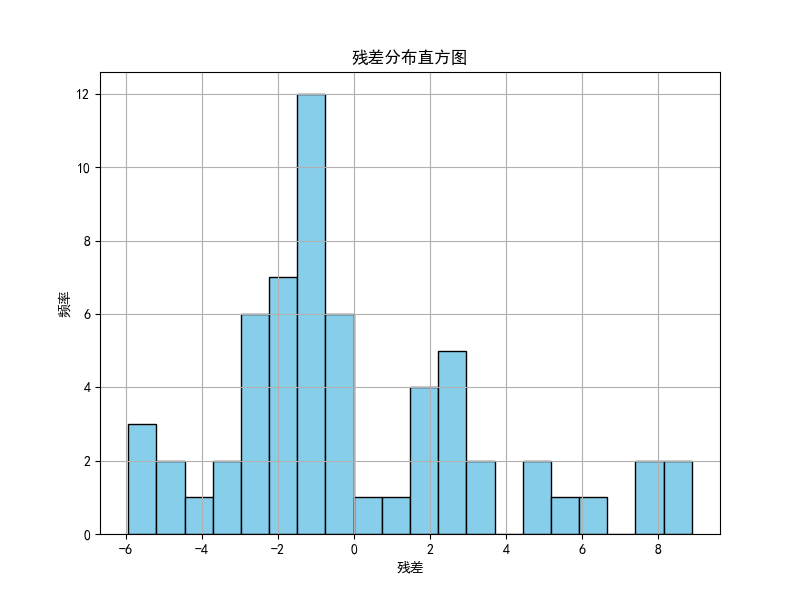
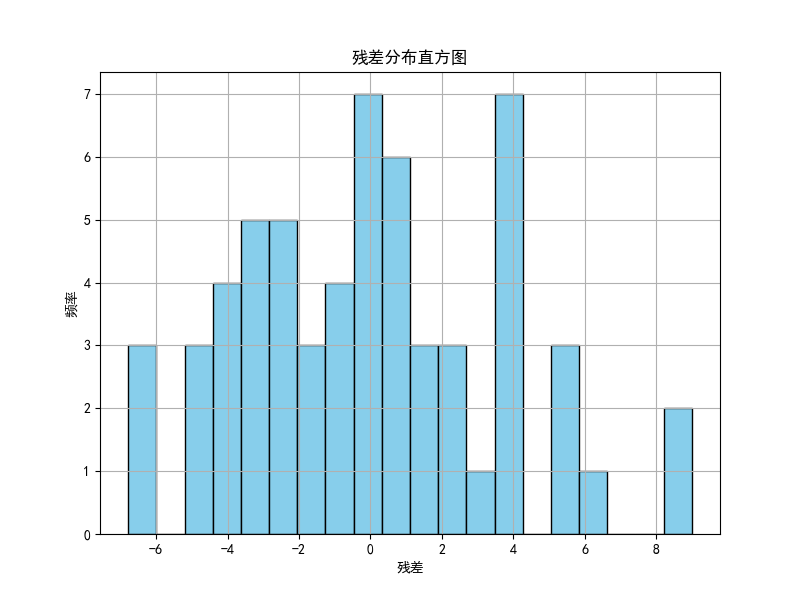
test(result): 更新结果文件和模型参数
- 更新了 P2 和 P3 文件夹中的结果文件
- 调整了支路流量模型的参数
- 修改了关键采样点分析的实现，增加了更多评估指标
- 更新了模型误差评估结果

diff --git a/51MCM/P5/key_sampling_points.py b/51MCM/P5/key_sampling_points.py
@@ -211,12 +211,50 @@ class KeySamplingPointsAnalyzer:
             }
 
         else:  # P3模型
-            # 由于P3模型较复杂，这里提供一个简化版评估
-            # 实际应用中可能需要更复杂的评估方法
+            from p3 import TrafficAnalysisSystem
 
-            # 计算采样点覆盖的数据特征比例
+            # 如果没有提供原始参数，使用默认参数或重新拟合
+            if original_params is None:
+                # 创建交通分析系统并优化模型
+                traffic_system = TrafficAnalysisSystem()
+                traffic_system.optimize_model()
+                original_params = traffic_system.optimal_params
+
+            # 使用采样点拟合模型
+            sampled_times = self.times[self.sampling_indices]
             sampled_flow = self.flow_data[self.sampling_indices]
 
+            # 创建一个新的交通分析系统用于采样点拟合
+            sampled_system = TrafficAnalysisSystem()
+
+            # 保存原始数据
+            original_time_idx = sampled_system.time_idx
+            original_actual_flow = sampled_system.actual_flow
+
+            # 替换为采样点数据
+            sampled_system.time_idx = sampled_times
+            sampled_system.actual_flow = sampled_flow
+
+            # 优化采样点模型
+            sampled_system.optimize_model()
+            sampled_params = sampled_system.optimal_params
+
+            # 恢复原始数据用于评估
+            sampled_system.time_idx = original_time_idx
+            sampled_system.actual_flow = original_actual_flow
+
+            # 计算全部数据点的预测值
+            full_predicted = sampled_system._calculate_main_flow(self.times, original_params)
+            sampled_predicted = sampled_system._calculate_main_flow(self.times, sampled_params)
+
+            # 计算误差
+            full_error = np.mean((full_predicted - self.flow_data)**2)
+            sampled_error = np.mean((sampled_predicted - self.flow_data)**2)
+
+            # 计算参数差异
+            param_diff = np.mean(np.abs(np.array(original_params) - np.array(sampled_params)))
+
+            # 计算采样点覆盖的数据特征比例
             # 计算数据范围覆盖率
             full_range = np.max(self.flow_data) - np.min(self.flow_data)
             sampled_range = np.max(sampled_flow) - np.min(sampled_flow)
@@ -232,6 +270,13 @@ class KeySamplingPointsAnalyzer:
             change_coverage = covered_changes / len(significant_changes) if len(significant_changes) > 0 else 1.0
 
             return {
+                'full_error': full_error,
+                'sampled_error': sampled_error,
+                'param_diff': param_diff,
+                'full_params': original_params,
+                'sampled_params': sampled_params,
+                'full_predicted': full_predicted,
+                'sampled_predicted': sampled_predicted,
                 'range_coverage': range_coverage,
                 'change_coverage': change_coverage,
                 'sampling_efficiency': len(self.sampling_indices) / len(self.flow_data)

diff --git a/51MCM/P3/交通流量分析报告.md b/51MCM/P3/交通流量分析报告.md
@@ -2,58 +2,58 @@
 
 ## 【模型误差评估】
 
-总体RMSE误差: 30.3733
+总体RMSE误差: 34.3958
 
 各时间段误差:
 
 | 时间段 | RMSE误差 |
 |--------|----------|
-| 7:00-7:30 | 9.9417 |
-| 7:30-8:00 | 37.3070 |
-| 8:00-8:30 | 25.5863 |
-| 8:30-8:58 | 37.8743 |
+| 7:00-7:30 | 12.1152 |
+| 7:30-8:00 | 36.8389 |
+| 8:00-8:30 | 26.5968 |
+| 8:30-8:58 | 49.0007 |
 
 ## 【支路1模型参数】
 
-增长阶段斜率: 3.1298
-初始值: 0.8841
-下降阶段斜率1: -2.9564
+增长阶段斜率: 2.5318
+初始值: 2.3197
+下降阶段斜率1: -2.1889
 稳定值: 15.0000
-下降阶段斜率2: -0.5300
-转折点: 4.8, 13.5, 18.1, 44.9
+下降阶段斜率2: -0.5627
+转折点: 5.3, 13.5, 17.2, 45.9
 
 ## 【支路2模型参数】
 
-增长斜率: 0.7038
-截距: 8.6579
-稳定值: 25.8699
-下降斜率: -1.0369
-终值: 25.8699
-转折点: 24.5, 49.6
+增长斜率: 0.8474
+截距: 6.4175
+稳定值: 28.1628
+下降斜率: -1.3293
+终值: 28.1628
+转折点: 25.7, 38.1
 
 ## 【支路3模型参数】
 
-绿灯周期1的斜率: 7.7700, 截距: 4.7325
-绿灯周期2的斜率: 8.3309, 截距: 18.2813
-绿灯周期3的斜率: 13.4907, 截距: 18.7226
-绿灯周期4的斜率: 16.2723, 截距: 21.7445
-绿灯周期5的斜率: 4.0171, 截距: 20.5064
+绿灯周期1的斜率: 10.5748, 截距: 4.2063
+绿灯周期2的斜率: 8.9196, 截距: 16.0758
+绿灯周期3的斜率: 13.4754, 截距: 19.5923
+绿灯周期4的斜率: 14.8680, 截距: 24.5716
+绿灯周期5的斜率: 8.9561, 截距: 28.3501
 
 ## 【支路1流量模型表达式】
 
-$f_1(t) = \begin{cases} 0, & t < 4.8 \\ 3.1298 \cdot (t-4.8) + 0.8841, & 4.8 \leq t < 13.5 \\ -2.9564 \cdot (t-13.5) + 28.3294, & 13.5 \leq t < 18.1 \\ 15.0000, & 18.1 \leq t < 44.9 \\ -0.5300 \cdot (t-44.9), & t \geq 44.9 \end{cases}$
+$f_1(t) = \begin{cases} 0, & t < 5.3 \\ 2.5318 \cdot (t-5.3) + 2.3197, & 5.3 \leq t < 13.5 \\ -2.1889 \cdot (t-13.5) + 23.1540, & 13.5 \leq t < 17.2 \\ 15.0000, & 17.2 \leq t < 45.9 \\ -0.5627 \cdot (t-45.9), & t \geq 45.9 \end{cases}$
 
 ## 【支路2流量模型表达式】
 
-$f_2(t) = \begin{cases} 0.7038 \cdot t + 8.6579, & t \leq 24.5 \\ 25.8699, & 24.5 < t \leq 49.6 \\ -1.0369 \cdot (t-49.6) + 25.8699, & t > 49.6 \end{cases}$
+$f_2(t) = \begin{cases} 0.8474 \cdot t + 6.4175, & t \leq 25.7 \\ 28.1628, & 25.7 < t \leq 38.1 \\ -1.3293 \cdot (t-38.1) + 28.1628, & t > 38.1 \end{cases}$
 
 ## 【支路3流量模型表达式】
 
-$f_3(t) = \begin{cases} 7.7700 \cdot (t-3) + 4.7325, & t \in [3, 8) \text{ 且为绿灯时段} \\ 8.3309 \cdot (t-12) + 18.2813, & t \in [12, 17) \text{ 且为绿灯时段} \\ 13.4907 \cdot (t-21) + 18.7226, & t \in [21, 26) \text{ 且为绿灯时段} \\ 16.2723 \cdot (t-30) + 21.7445, & t \in [30, 35) \text{ 且为绿灯时段} \\ 4.0171 \cdot (t-39) + 20.5064, & t \in [39, 44) \text{ 且为绿灯时段} \\ 0, & \text{其他时段（红灯）} \end{cases}$
+$f_3(t) = \begin{cases} 10.5748 \cdot (t-3) + 4.2063, & t \in [3, 8) \text{ 且为绿灯时段} \\ 8.9196 \cdot (t-12) + 16.0758, & t \in [12, 17) \text{ 且为绿灯时段} \\ 13.4754 \cdot (t-21) + 19.5923, & t \in [21, 26) \text{ 且为绿灯时段} \\ 14.8680 \cdot (t-30) + 24.5716, & t \in [30, 35) \text{ 且为绿灯时段} \\ 8.9561 \cdot (t-39) + 28.3501, & t \in [39, 44) \text{ 且为绿灯时段} \\ 0, & \text{其他时段（红灯）} \end{cases}$
 
 ## 【关键时间点流量】
 
 | 时间点 | 支路1 | 支路2 | 支路3 | 主路4(预测) | 主路4(实际) |
 |--------|-------|-------|-------|------------|------------|
-| 7:30 | 24.03 | 19.21 | 43.27 |    86.27 |    92.78 |
-| 8:30 |  0.00 | 25.87 |  0.00 |    25.00 |    44.00 |
+| 7:30 | 19.90 | 19.13 | 42.83 |    80.83 |    92.78 |
+| 8:30 | 15.00 | 18.94 |  0.00 |    33.00 |    44.00 |

diff --git a/51MCM/P2/result.md b/51MCM/P2/result.md
@@ -1,21 +1,21 @@
 # Result
 
-$ 支路1: f(t) = 7.20 （稳定） $
-$ 支路2: f(t) = \begin{cases} 0.42t + 15.43, & t < 24 \\ 25.56, & 24 \leq t < 37 \\ -0.22t + 33.73, & t \geq 37 \end{cases} $
-$ 支路3: f(t) = \begin{cases} 0.50t + 15.87, & t < 35 \\ 33.50, & t \geq 35 \end{cases} $
-$ 支路4: f(t) = 7.61 + -3.38 \cos\left(\frac{2\pi 1 t}{41.27023333393062}\right) + 1.20 \sin\left(\frac{2\pi 1 t}{41.27023333393062}\right) + 1.12 \cos\left(\frac{2\pi 2 t}{41.27023333393062}\right) + -0.42 \sin\left(\frac{2\pi 2 t}{41.27023333393062}\right) + -4.79 \cos\left(\frac{2\pi 3 t}{41.27023333393062}\right) + -5.82 \sin\left(\frac{2\pi 3 t}{41.27023333393062}\right) $
+$ 支路1: f(t) = 9.52 （稳定） $
+$ 支路2: f(t) = \begin{cases} 0.42t + 18.55, & t < 24 \\ 28.63, & 24 \leq t < 37 \\ -0.21t + 36.53, & t \geq 37 \end{cases} $
+$ 支路3: f(t) = \begin{cases} 0.49t + 14.05, & t < 35 \\ 31.05, & t \geq 35 \end{cases} $
+$ 支路4: f(t) = 4.82 + -2.21 \cos\left(\frac{2\pi 1 t}{28.16543019218076}\right) + -2.61 \sin\left(\frac{2\pi 1 t}{28.16543019218076}\right) + -5.62 \cos\left(\frac{2\pi 2 t}{28.16543019218076}\right) + -4.08 \sin\left(\frac{2\pi 2 t}{28.16543019218076}\right) + 1.17 \cos\left(\frac{2\pi 3 t}{28.16543019218076}\right) + 1.45 \sin\left(\frac{2\pi 3 t}{28.16543019218076}\right) $
 
 ## 7:30 各支路流量值
 
-- Branch1: 7.00
-- Branch2: 20.00
-- Branch3: 23.37
-- Branch4: 3.82
+- Branch1: 9.00
+- Branch2: 24.00
+- Branch3: 21.34
+- Branch4: -1.06
 
 ## 8:30 各支路流量值
 
-- Branch1: 7.00
-- Branch2: 26.00
-- Branch3: 33.50
-- Branch4: 0.37
+- Branch1: 9.00
+- Branch2: 29.00
+- Branch3: 31.05
+- Branch4: 1.31
 

diff --git a/51MCM/P5/P2/关键采样点分析报告.md b/51MCM/P5/P2/关键采样点分析报告.md
@@ -31,10 +31,10 @@
 
 ## 评估指标
 
-全部数据拟合误差: 12.0838
-采样点拟合误差: 13.0265
-误差比率: 1.0780
-参数差异: 0.1849
+全部数据拟合误差: 12.6159
+采样点拟合误差: 50.0635
+误差比率: 3.9683
+参数差异: 0.6453
 
 ## 结论
 

diff --git a/51MCM/P5/P3/关键采样点分析报告.md b/51MCM/P5/P3/关键采样点分析报告.md
@@ -42,6 +42,11 @@
 
 ## 评估指标
 
+全部数据拟合误差: 1025.2521
+采样点拟合误差: 1165.3806
+误差比率: 1.1367
+参数差异: 1.2652
+
 数据范围覆盖率: 1.0000
 变化点覆盖率: 1.0000
 采样效率: 0.5500
